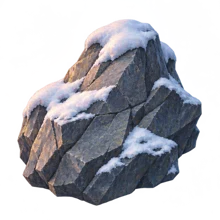
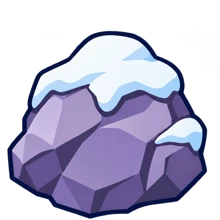
Restyle Avalanche Escape with bright AI cartoon arcade artwork

diff --git a/public/mini-games/games/avalanche-escape/style.css b/public/mini-games/games/avalanche-escape/style.css
@@ -1,2 +1,29 @@
-body{margin:0;background:#102532}#avalanche-escape{--snow:#f3f1e7;--ice:#b9e4e6;--pine:#133d48;--orange:#f9b66c;max-width:1000px;margin:auto;padding:18px;color:var(--snow);font:15px system-ui,-apple-system,sans-serif}#avalanche-escape *{box-sizing:border-box}#avalanche-escape .summit-header{display:flex;align-items:center;justify-content:space-between;gap:18px;margin:0 0 16px}#avalanche-escape header a{font-size:10px;font-weight:800;letter-spacing:2px;color:#b9d2d3;text-decoration:none}#avalanche-escape h1{font:950 clamp(21px,4vw,36px)/1 system-ui;letter-spacing:-1.5px;margin:9px 0 0}#avalanche-escape h1 span{color:#f9b66c}#avalanche-escape button{font:850 13px system-ui;min-height:46px;touch-action:none;user-select:none;border:1px solid #6e929b;border-radius:7px;padding:10px 16px;background:#26434f;color:#eaf3ec}#avalanche-escape button:focus-visible,#avalanche-escape a:focus-visible{outline:3px solid #f9b66c;outline-offset:4px}#avalanche-escape .run-hud{display:grid;grid-template-columns:repeat(3,1fr);background:#203e4b;border:1px solid #4b6b74;border-bottom:0;border-radius:12px 12px 0 0}#avalanche-escape .run-hud>div{display:flex;align-items:center;justify-content:center;gap:10px;padding:11px 6px;flex-wrap:wrap}#avalanche-escape .run-hud>div+div{border-left:1px solid #4b6b7488}#avalanche-escape .run-hud small{font-size:9px;letter-spacing:1.5px;font-weight:850;color:#b1cbd0}#avalanche-escape .run-hud strong{font:850 28px/1 system-ui;font-variant-numeric:tabular-nums;color:#fff4df}#avalanche-escape .run-hud span{font-size:8px;font-weight:750;color:#92b1b9;letter-spacing:1px}#avalanche-escape .run-stage{position:relative;overflow:hidden;isolation:isolate;border:1px solid #6a9299;border-radius:0 0 12px 12px;background:#b8d9e0}#avalanche-escape canvas{display:block;width:100%;aspect-ratio:600/650;touch-action:none}#avalanche-escape .scene-top{position:absolute;top:15px;left:16px;right:16px;display:flex;justify-content:space-between;gap:8px;pointer-events:none}#avalanche-escape .scene-top span{background:#11313dbd;color:#f2f1df;padding:7px 9px;border-radius:4px;font-size:8px;font-weight:850;letter-spacing:1px}#avalanche-escape .run-message{position:absolute;bottom:87px;left:12px;right:12px;text-align:center;pointer-events:none;font-size:12px;font-weight:950;color:#fff7dd;text-shadow:0 2px 3px #132e39,0 0 10px #132e39;background:#163b476b;padding:8px;border-radius:4px}#avalanche-escape .dash-hud{position:absolute;bottom:16px;left:25%;right:25%;padding:10px 13px;background:#163542e8;border-radius:7px;pointer-events:none}#avalanche-escape .dash-hud>div:first-child{display:flex;justify-content:space-between;font-size:8px;letter-spacing:1px;color:#d8e9e5;margin-bottom:6px}#avalanche-escape .energy-track{height:6px;background:#ffffff22;border-radius:3px;overflow:hidden}#avalanche-escape #energy{display:block;height:100%;background:#ffc582;width:100%;transform-origin:left;will-change:transform}#avalanche-escape .intro-overlay{position:absolute;inset:0;display:flex;align-items:center;padding:30px;background:linear-gradient(90deg,#0e2d3ee8,#0e2d3e99 64%,#0e2d3e22)}#avalanche-escape .intro-overlay[hidden]{display:none}#avalanche-escape .intro-overlay section{max-width:450px}#avalanche-escape .eyebrow{font-size:9px;letter-spacing:2px;font-weight:850;color:#f8c68e}#avalanche-escape h2{font:950 clamp(29px,5.4vw,48px)/1.05 system-ui;letter-spacing:-2px;margin:17px 0}#avalanche-escape h2 em{font-style:normal;color:#ffd297}#avalanche-escape .intro-overlay p{font-size:14px;line-height:1.6;color:#d3e4e3;max-width:390px}#avalanche-escape .legend{display:flex;gap:8px;flex-wrap:wrap;margin:22px 0}#avalanche-escape .legend span{font-size:9px;font-weight:850;color:#f0dbb9;background:#11323d;border:1px solid #5f7e7f;padding:7px 9px;border-radius:4px}#avalanche-escape .start-button{background:#ffc185;color:#193542;border-color:#ffdfb5;padding:13px 23px;font-size:17px}#avalanche-escape .start-button span{padding-left:30px}#avalanche-escape .intro-overlay .intro-controls{font-size:10px;line-height:1.9;color:#b7d3d6;margin:17px 0 0}#avalanche-escape .ski-controls{display:grid;grid-template-columns:1fr 1.3fr 1fr;gap:10px;margin-top:12px}#avalanche-escape .ski-controls button{padding:13px 10px;min-height:54px}#avalanche-escape .ski-controls button span{font-size:10px;margin:0 5px}#avalanche-escape .dash-button{background:#f8b570;border-color:#ffddae;color:#1b3945}#avalanche-escape .dash-button small{display:block;font-size:8px;letter-spacing:2px;margin-top:3px}#avalanche-escape .control-hint{text-align:center;color:#9dbfc5;font-size:11px;line-height:1.5;margin:10px 0}#avalanche-escape footer{display:flex;justify-content:space-between;font-size:8px;letter-spacing:1.4px;font-weight:800;color:#688d98;border-top:1px solid #466772;padding-top:12px;margin-top:15px}@media(min-width:800px){#avalanche-escape{max-width:680px}}@media(max-width:550px){#avalanche-escape{padding:10px}#avalanche-escape .run-hud>div{gap:5px}#avalanche-escape .run-hud span{display:none}#avalanche-escape .run-hud strong{font-size:24px}#avalanche-escape .run-hud small{font-size:8px}#avalanche-escape .scene-top{top:10px;left:10px;right:10px}#avalanche-escape .weather{display:none}#avalanche-escape .intro-overlay{padding:22px}#avalanche-escape h2{font-size:35px}#avalanche-escape .intro-overlay p{font-size:12px}#avalanche-escape .legend{margin:14px 0}#avalanche-escape .run-message{font-size:10px;bottom:73px}#avalanche-escape .dash-hud{left:20%;right:20%;padding:9px 11px;bottom:12px}#avalanche-escape .ski-controls{gap:6px}#avalanche-escape .ski-controls button span{display:none}#avalanche-escape .ski-controls button{font-size:13px}#avalanche-escape .ski-controls #left,#avalanche-escape .ski-controls #right{font-size:23px}#avalanche-escape .summit-header{gap:8px}#avalanche-escape .summit-header button{padding:9px 12px;font-size:11px}}
+body{margin:0;background:#20264b}#avalanche-escape{--snow:#f3f1e7;--ice:#b9e4e6;--pine:#253462;--orange:#ffd84d;max-width:1000px;margin:auto;padding:18px;color:var(--snow);font:15px system-ui,-apple-system,sans-serif}#avalanche-escape *{box-sizing:border-box}#avalanche-escape .summit-header{display:flex;align-items:center;justify-content:space-between;gap:18px;margin:0 0 16px}#avalanche-escape header a{font-size:10px;font-weight:800;letter-spacing:2px;color:#b9edff;text-decoration:none}#avalanche-escape h1{font:950 clamp(21px,4vw,36px)/1 system-ui;letter-spacing:-1.5px;margin:9px 0 0}#avalanche-escape h1 span{color:#ffd84d}#avalanche-escape button{font:850 13px system-ui;min-height:46px;touch-action:none;user-select:none;border:1px solid #293869;border-radius:7px;padding:10px 16px;background:#4778de;color:#ffffff}#avalanche-escape button:focus-visible,#avalanche-escape a:focus-visible{outline:3px solid #ffd84d;outline-offset:4px}#avalanche-escape .run-hud{display:grid;grid-template-columns:repeat(3,1fr);background:#e6f8ff;border:1px solid #293869;border-bottom:0;border-radius:12px 12px 0 0}#avalanche-escape .run-hud>div{display:flex;align-items:center;justify-content:center;gap:10px;padding:11px 6px;flex-wrap:wrap}#avalanche-escape .run-hud>div+div{border-left:1px solid #29386988}#avalanche-escape .run-hud small{font-size:9px;letter-spacing:1.5px;font-weight:850;color:#344c7e}#avalanche-escape .run-hud strong{font:850 28px/1 system-ui;font-variant-numeric:tabular-nums;color:#253462}#avalanche-escape .run-hud span{font-size:8px;font-weight:750;color:#486498;letter-spacing:1px}#avalanche-escape .run-stage{position:relative;overflow:hidden;isolation:isolate;border:1px solid #6a9299;border-radius:0 0 12px 12px;background:#b8d9e0}#avalanche-escape canvas{display:block;width:100%;aspect-ratio:600/650;touch-action:none}#avalanche-escape .scene-top{position:absolute;top:15px;left:16px;right:16px;display:flex;justify-content:space-between;gap:8px;pointer-events:none}#avalanche-escape .scene-top span{background:#2c438bdc;color:#f2f1df;padding:7px 9px;border-radius:4px;font-size:8px;font-weight:850;letter-spacing:1px}#avalanche-escape .run-message{position:absolute;bottom:87px;left:12px;right:12px;text-align:center;pointer-events:none;font-size:12px;font-weight:950;color:#fff7dd;text-shadow:0 2px 3px #132e39,0 0 10px #132e39;background:#2d438bc9;padding:8px;border-radius:4px}#avalanche-escape .dash-hud{position:absolute;bottom:16px;left:25%;right:25%;padding:10px 13px;background:#28366bea;border-radius:7px;pointer-events:none}#avalanche-escape .dash-hud>div:first-child{display:flex;justify-content:space-between;font-size:8px;letter-spacing:1px;color:#d8e9e5;margin-bottom:6px}#avalanche-escape .energy-track{height:6px;background:#ffffff22;border-radius:3px;overflow:hidden}#avalanche-escape #energy{display:block;height:100%;background:#ffd84d;width:100%;transform-origin:left;will-change:transform}#avalanche-escape .intro-overlay{position:absolute;inset:0;display:flex;align-items:center;padding:30px;background:linear-gradient(90deg,#263562ed,#263562b5 64%,#26356222)}#avalanche-escape .intro-overlay[hidden]{display:none}#avalanche-escape .intro-overlay section{max-width:450px}#avalanche-escape .eyebrow{font-size:9px;letter-spacing:2px;font-weight:850;color:#ffd84d}#avalanche-escape h2{font:950 clamp(29px,5.4vw,48px)/1.05 system-ui;letter-spacing:-2px;margin:17px 0}#avalanche-escape h2 em{font-style:normal;color:#ffd84d}#avalanche-escape .intro-overlay p{font-size:14px;line-height:1.6;color:#d3e4e3;max-width:390px}#avalanche-escape .legend{display:flex;gap:8px;flex-wrap:wrap;margin:22px 0}#avalanche-escape .legend span{font-size:9px;font-weight:850;color:#f0dbb9;background:#334c91;border:1px solid #a8d8ff;padding:7px 9px;border-radius:4px}#avalanche-escape .start-button{background:#ffd84d;color:#193542;border-color:#ffdfb5;padding:13px 23px;font-size:17px}#avalanche-escape .start-button span{padding-left:30px}#avalanche-escape .intro-overlay .intro-controls{font-size:10px;line-height:1.9;color:#b7d3d6;margin:17px 0 0}#avalanche-escape .ski-controls{display:grid;grid-template-columns:1fr 1.3fr 1fr;gap:10px;margin-top:12px}#avalanche-escape .ski-controls button{padding:13px 10px;min-height:54px}#avalanche-escape .ski-controls button span{font-size:10px;margin:0 5px}#avalanche-escape .dash-button{background:#ffd84d;border-color:#253462;color:#253462}#avalanche-escape .dash-button small{display:block;font-size:8px;letter-spacing:2px;margin-top:3px}#avalanche-escape .control-hint{text-align:center;color:#9dbfc5;font-size:11px;line-height:1.5;margin:10px 0}#avalanche-escape footer{display:flex;justify-content:space-between;font-size:8px;letter-spacing:1.4px;font-weight:800;color:#688d98;border-top:1px solid #466772;padding-top:12px;margin-top:15px}@media(min-width:800px){#avalanche-escape{max-width:680px}}@media(max-width:550px){#avalanche-escape{padding:10px}#avalanche-escape .run-hud>div{gap:5px}#avalanche-escape .run-hud span{display:none}#avalanche-escape .run-hud strong{font-size:24px}#avalanche-escape .run-hud small{font-size:8px}#avalanche-escape .scene-top{top:10px;left:10px;right:10px}#avalanche-escape .weather{display:none}#avalanche-escape .intro-overlay{padding:22px}#avalanche-escape h2{font-size:35px}#avalanche-escape .intro-overlay p{font-size:12px}#avalanche-escape .legend{margin:14px 0}#avalanche-escape .run-message{font-size:10px;bottom:73px}#avalanche-escape .dash-hud{left:20%;right:20%;padding:9px 11px;bottom:12px}#avalanche-escape .ski-controls{gap:6px}#avalanche-escape .ski-controls button span{display:none}#avalanche-escape .ski-controls button{font-size:13px}#avalanche-escape .ski-controls #left,#avalanche-escape .ski-controls #right{font-size:23px}#avalanche-escape .summit-header{gap:8px}#avalanche-escape .summit-header button{padding:9px 12px;font-size:11px}}
 @media(max-width:380px){#avalanche-escape .intro-overlay{padding:14px}#avalanche-escape h2{font-size:27px;letter-spacing:-1px;margin:12px 0}#avalanche-escape .eyebrow{font-size:8px;letter-spacing:1px}#avalanche-escape .intro-overlay p{font-size:11px;line-height:1.5;margin:10px 0}#avalanche-escape .intro-overlay .intro-controls{display:none}#avalanche-escape .legend{margin:10px 0;gap:4px}#avalanche-escape .legend span{font-size:8px;padding:5px}#avalanche-escape .start-button{padding:10px 16px;font-size:15px}}
+
+/* Cartoon arcade chrome: bold outlines, raised buttons and bright snow-blue HUD. */
+#avalanche-escape{--snow:#ffffff;--orange:#ffd84d;--pine:#253462;font-family:ui-rounded,"Trebuchet MS",system-ui,sans-serif}
+#avalanche-escape h1{font-style:italic;letter-spacing:-1px;text-shadow:0 4px 0 #0f1636}
+#avalanche-escape h1 span{color:#ffd84d}
+#avalanche-escape button{border:3px solid #253462;border-radius:13px;box-shadow:0 4px 0 #142043;font-family:inherit;transition:transform .08s,box-shadow .08s}
+#avalanche-escape button:active{transform:translateY(3px);box-shadow:0 1px 0 #142043}
+#avalanche-escape button:disabled{opacity:.55;transform:none}
+#avalanche-escape .run-hud{border:3px solid #253462;border-bottom:0;box-shadow:inset 0 5px 0 #ffffff;border-radius:18px 18px 0 0}
+#avalanche-escape .run-hud>div{padding:12px 5px;gap:7px}
+#avalanche-escape .run-hud small{font-size:10px;letter-spacing:.8px;color:#344c7e}
+#avalanche-escape .run-hud strong{color:#253462;font-size:30px}
+#avalanche-escape .run-hud span{display:none}
+#avalanche-escape .run-stage{border:3px solid #253462;border-radius:0 0 18px 18px}
+#avalanche-escape .scene-top span{border:2px solid #253462;border-radius:8px;font-size:9px;box-shadow:0 2px 0 #253462}
+#avalanche-escape .run-message{left:16%;right:16%;background:#2b438ad9;color:white;border-radius:10px;font-size:11px;text-shadow:0 2px 0 #24305b}
+#avalanche-escape .dash-hud{border:2px solid #253462;border-radius:12px;box-shadow:0 3px 0 #253462}
+#avalanche-escape .dash-hud>div:first-child{font-size:9px;color:#fff}
+#avalanche-escape .energy-track{height:9px;border-radius:5px}
+#avalanche-escape h2{font-style:italic;letter-spacing:-1px;text-shadow:0 4px 0 #16244e}
+#avalanche-escape .legend span{border:2px solid #b5dcff;border-radius:8px;color:#fff}
+#avalanche-escape .start-button{background:#ffd84d;color:#253462;border-color:#253462;box-shadow:0 5px 0 #142043}
+#avalanche-escape .dash-button{background:#ffd84d;color:#253462}
+#avalanche-escape .ski-controls button{font-size:14px}
+#avalanche-escape .control-hint{color:#c0d9ff}
+#avalanche-escape footer{color:#a4b9e4;border-color:#5775ae}
+@media(max-width:550px){#avalanche-escape .run-hud>div{flex-direction:column;gap:4px}#avalanche-escape .run-hud small{font-size:9px}#avalanche-escape .scene-top span{font-size:8px}#avalanche-escape .run-message{left:8%;right:8%;font-size:10px}}

diff --git a/public/mini-games/games/avalanche-escape/index.html b/public/mini-games/games/avalanche-escape/index.html
@@ -1,2 +1,2 @@
 <!doctype html><html lang="en"><head><meta charset="utf-8"><meta name="viewport" content="width=device-width,initial-scale=1,viewport-fit=cover"><title>Avalanche Escape | Teach Arcade</title><meta name="description" content="Ski through an alpine powder run, dodge snowballs and rocks on the slope, and collect golden trail markers in a 45-second arcade escape."><meta name="robots" content="noindex"><link rel="stylesheet" href="style.css"><link rel="preload" as="image" href="assets/alpine-run.webp"></head><body>
-<div id="avalanche-escape"><header class="summit-header"><div><a href="/mini-games/">← MINI GAMES</a><h1>AVALANCHE <span>ESCAPE</span></h1></div><button id="pause" disabled aria-label="Pause round">Pause</button></header><main><section class="run-hud" aria-label="Run status"><div><small>TIME LEFT</small><strong id="time">45.0</strong><span>SECONDS</span></div><div><small>TRAIL SCORE</small><strong id="score">0</strong><span>POINTS</span></div><div><small>HITS</small><strong id="hits">0</strong><span>STAY CLEAR</span></div></section><div class="run-stage"><canvas id="canvas" aria-label="Alpine skiing run. Steer with Left and Right arrows, A and D, or drag toward your destination. Hold Space or Dash for a short burst. Dodge blue-shadowed snowballs and slate rocks. Gold trail markers award points."></canvas><div class="scene-top"><span class="altitude">NORTH RIDGE · POWDER RUN</span><span class="weather">SNOWFALL / RISING DANGER</span></div><div id="message" class="run-message" aria-live="polite">READ THE SLOPE. FIND YOUR LINE.</div><div class="dash-hud"><div><strong>DASH RESERVE</strong><span id="energy-label">100%</span></div><div class="energy-track"><i id="energy"></i></div></div><div id="overlay" class="intro-overlay"><section><span class="eyebrow">45 SECONDS TO OUTRUN THE MOUNTAIN</span><h2 id="title">FIND YOUR LINE.<br><em>BEAT THE SLIDE.</em></h2><p id="description">Carve past snowballs and exposed rocks on the slope. Collect gold trail markers and use short dashes to squeeze through danger.</p><div class="legend"><span>GOLD +25</span><span>CLOSE CALL +10</span><span>HIT −15</span></div><button id="start" class="start-button">DROP IN <span>↘</span></button><p class="intro-controls">← → / A D steer · Hold Space to dash<br>Touch: drag to steer, hold DASH with your other hand.</p></section></div></div><section class="ski-controls" aria-label="Ski controls"><button id="left" aria-label="Steer left">← <span>CARVE LEFT</span></button><button id="dash" class="dash-button">HOLD TO DASH <small>SPACE</small></button><button id="right" aria-label="Steer right"><span>CARVE RIGHT</span> →</button></section><p class="control-hint">Drag on the snow or use ← → to steer. Hold Space / DASH for a burst.</p></main><footer>TEACH ARCADE ORIGINALS <span>ALPINE SERIES / 01</span></footer></div><script type="module" src="game.js"></script></body></html>
+<div id="avalanche-escape"><header class="summit-header"><div><a href="/mini-games/">← MINI GAMES</a><h1>AVALANCHE <span>ESCAPE</span></h1></div><button id="pause" disabled aria-label="Pause round">Pause</button></header><main><section class="run-hud" aria-label="Run status"><div><small>TIME LEFT</small><strong id="time">45.0</strong><span>SECONDS</span></div><div><small>TRAIL SCORE</small><strong id="score">0</strong><span>POINTS</span></div><div><small>HITS</small><strong id="hits">0</strong><span>STAY CLEAR</span></div></section><div class="run-stage"><canvas id="canvas" aria-label="Alpine skiing run. Steer with Left and Right arrows, A and D, or drag toward your destination. Hold Space or Dash for a short burst. Dodge outlined snowballs and purple rocks. Gold trail markers award points."></canvas><div class="scene-top"><span class="altitude">NORTH RIDGE · POWDER RUN</span><span class="weather">POWDER ALERT!</span></div><div id="message" class="run-message" aria-live="polite">READ THE SLOPE. FIND YOUR LINE.</div><div class="dash-hud"><div><strong>DASH RESERVE</strong><span id="energy-label">100%</span></div><div class="energy-track"><i id="energy"></i></div></div><div id="overlay" class="intro-overlay"><section><span class="eyebrow">45 SECONDS TO OUTRUN THE MOUNTAIN</span><h2 id="title">CARVE. DODGE.<br><em>OUTRUN IT!</em></h2><p id="description">Carve past snowballs and exposed rocks on the slope. Collect gold trail markers and use short dashes to squeeze through danger.</p><div class="legend"><span>GOLD +25</span><span>CLOSE CALL +10</span><span>HIT −15</span></div><button id="start" class="start-button">DROP IN <span>↘</span></button><p class="intro-controls">← → / A D steer · Hold Space to dash<br>Touch: drag to steer, hold DASH with your other hand.</p></section></div></div><section class="ski-controls" aria-label="Ski controls"><button id="left" aria-label="Steer left">← <span>CARVE LEFT</span></button><button id="dash" class="dash-button">HOLD TO DASH <small>SPACE</small></button><button id="right" aria-label="Steer right"><span>CARVE RIGHT</span> →</button></section><p class="control-hint">Drag on the snow or use ← → to steer. Hold Space / DASH for a burst.</p></main><footer>TEACH ARCADE ORIGINALS <span>POWDER PANIC / 45 SECOND RUN</span></footer></div><script type="module" src="game.js"></script></body></html>

diff --git a/public/mini-games/games/avalanche-escape/game.js b/public/mini-games/games/avalanche-escape/game.js
@@ -26,7 +26,7 @@ for(const event of ['pointerup','pointercancel','lostpointercapture'])canvas.add
 function puff(x,y,n=12){for(let i=0;i<n;i++)particles.push({x,y,vx:(Math.random()-.5)*110,vy:20+Math.random()*90,life:.4+Math.random()*.4});particles=particles.slice(-100);}
 function sprite(name,x,y,w,angle=0,alpha=1){const im=art[name];if(!im)return;const h=w*im.height/im.width;ctx.save();ctx.translate(x,y);ctx.rotate(angle);ctx.globalAlpha*=alpha;ctx.drawImage(im,-w/2,-h/2,w,h);ctx.restore();}
 function shadow(x,y,r){ctx.fillStyle='#224c6d30';ctx.beginPath();ctx.ellipse(x+5,y+8,r,r*.38,0,0,Math.PI*2);ctx.fill();}
-function gold(x,y,r){shadow(x,y,r);ctx.save();ctx.translate(x,y);ctx.rotate(Math.sin(clock*2+y)*.12);ctx.fillStyle='#bd7517';ctx.strokeStyle='#70450e';ctx.lineWidth=2;ctx.beginPath();ctx.moveTo(0,-r);ctx.lineTo(r*.72,0);ctx.lineTo(0,r);ctx.lineTo(-r*.72,0);ctx.closePath();ctx.fill();ctx.stroke();ctx.fillStyle='#ffe29a';ctx.beginPath();ctx.moveTo(0,-r*.78);ctx.lineTo(r*.47,0);ctx.lineTo(0,r*.55);ctx.lineTo(-r*.47,0);ctx.closePath();ctx.fill();ctx.fillStyle='#fff9d9';ctx.fillRect(-2,-r*.45,4,r*.7);ctx.restore();}
+function gold(x,y,r){shadow(x,y,r);ctx.save();ctx.translate(x,y);ctx.rotate(Math.sin(clock*2+y)*.12);ctx.fillStyle='#bd7517';ctx.strokeStyle='#253462';ctx.lineWidth=3;ctx.beginPath();ctx.moveTo(0,-r);ctx.lineTo(r*.72,0);ctx.lineTo(0,r);ctx.lineTo(-r*.72,0);ctx.closePath();ctx.fill();ctx.stroke();ctx.fillStyle='#ffe29a';ctx.beginPath();ctx.moveTo(0,-r*.78);ctx.lineTo(r*.47,0);ctx.lineTo(0,r*.55);ctx.lineTo(-r*.47,0);ctx.closePath();ctx.fill();ctx.fillStyle='#fff9d9';ctx.fillRect(-2,-r*.45,4,r*.7);ctx.restore();}
 // Bring distant terrain objects forward along the snow plane. The final 310
 // world units use the engine's exact coordinates and radii for fair collisions.
 function projectSlope(x,y,r=1){
@@ -53,7 +53,7 @@ function render(dt){
  if(playing){tracks.push({x,y:508,dx:-lean*7});if(Math.random()<dt*(dash?90:28))puff(x+(Math.random()-.5)*25,526,1);}
  for(const o of [...(s?.objects||[])].sort((a,b)=>a.y-b.y))drawSlopeObject(o,t);
  const movement=(x-previousX)/Math.max(dt,.001);previousX=x;lean+=(clamp(movement/350,-1,1)-lean)*(1-Math.exp(-dt*12));
- shadow(x,510,20);sprite('skier',x,505,46,lean*.18,s?.inv>0?.55+Math.sin(clock*35)*.22:1);
+ shadow(x,510,20);sprite('skier',x,505,54,lean*.18,s?.inv>0?.55+Math.sin(clock*35)*.22:1);
  for(const p of particles){if(playing){p.x+=p.vx*dt;p.y+=p.vy*dt;p.life-=dt;}ctx.fillStyle=`rgba(255,255,255,${Math.max(0,p.life)})`;ctx.beginPath();ctx.arc(p.x,p.y,2.2,0,Math.PI*2);ctx.fill();}particles=particles.filter(p=>p.life>0);
  // A distant powder front grows without obscuring collision space.
  const front=ctx.createLinearGradient(0,40,0,150);front.addColorStop(0,'rgba(237,247,255,'+(0.25+t/110)+')');front.addColorStop(1,'rgba(237,247,255,0)');ctx.fillStyle=front;ctx.fillRect(0,40,600,110);

diff --git a/public/mini-games/games/avalanche-escape/ART.md b/public/mini-games/games/avalanche-escape/ART.md
@@ -1,8 +1,10 @@
-# Avalanche Escape — alpine art direction
+# Avalanche Escape — cartoon arcade art direction
 
-AI-generated original scenery and transparent character/obstacle artwork, created for this game in November 2026. Local WebP assets need no external image service at runtime. Combined artwork is about 226 KB.
+AI-generated original scenery and transparent character/obstacle artwork, created for this game in November 2026. Local WebP assets need no external image service at runtime. Combined cartoon artwork is about 91 KB.
 
-Direction: painterly dimensional alpine snow, peach rim light, blue shadows, snowy spruce edges, spacious pale central piste; an orange-parka skier with teal helmet and blue skis, rough snowball, slate granite boulder, and snow-covered spruce.
+Direction: bright cartoon video game art, chunky rounded forms, bold navy outlines, clean cel shading, turquoise sky, purple-blue mountains, teal spruce edges and a spacious pale cyan piste. The orange-jacketed skier has an oversized teal helmet and blue skis; the outlined snowball, purple rock and spruce share the same simple arcade style.
+
+AI prompt briefs: a portrait cartoon alpine game background with the central snow lane unobstructed and no baked-in UI; a transparent 2x2 sprite atlas containing a rear-view cartoon skier, snowball, snow-capped purple boulder and snowy teal spruce. Generated with the built-in image tool, then cropped and optimized as local WebP assets. Prior painterly artwork remains recoverable in the branch history.
 
 The background was generated as a portrait scene with the mountains in the upper portion and the center clear of hazards. Four isolated sprites were generated in a transparent two-by-two atlas, then cropped, resized and compressed to individual WebP files. No generated text or UI is baked into the art.
 
